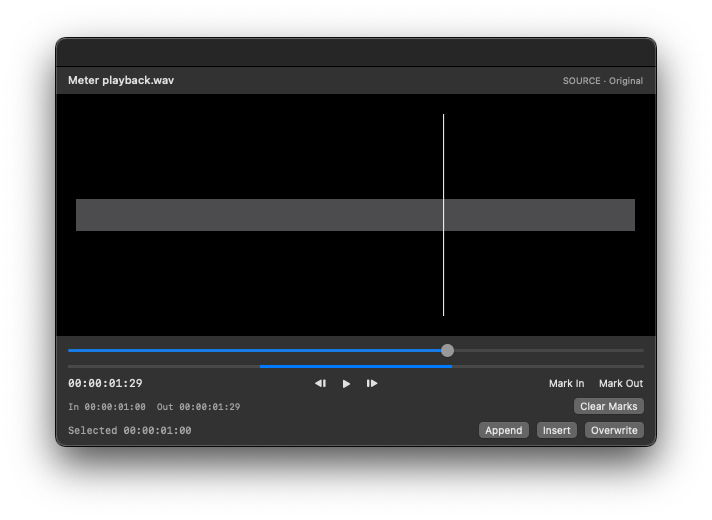
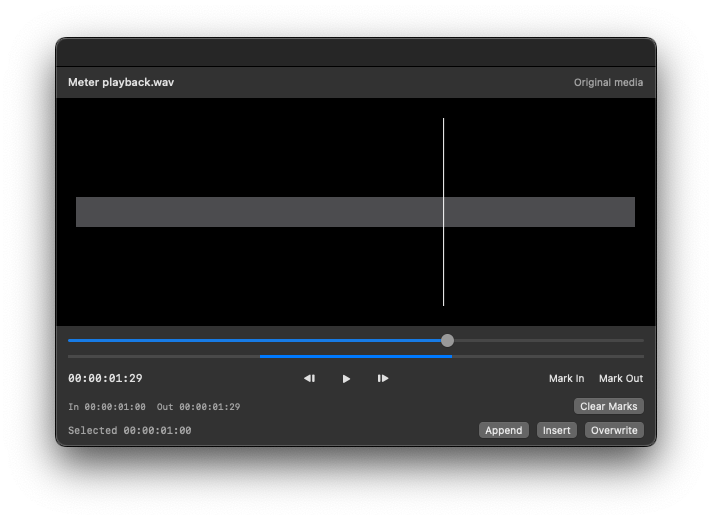
docs: refresh validated workspace captures and shortcut guidance

diff --git a/docs/STATUS.md b/docs/STATUS.md
@@ -30,6 +30,6 @@ This is the development status for 0.26.0. A published DMG means that milestone 
 
 ## Validation evidence and limits
 
-The macOS ARM64 CI builds Debug and Release, runs core and native-media integration tests, runs C audio DSP sanitizers, compares the core editing benchmark, builds and verifies a DMG, installs its app, launches an editing smoke workflow, and captures compact/wide editing workspaces, audio, export, empty states, shortcuts and the source viewer in dark and light appearances. Release jobs repeat native checks before publishing the DMG and checksum. Tests inspect real decoded pixels/audio, not just project metadata.
+The macOS ARM64 CI builds Debug and Release, runs core and native-media integration tests, runs C audio DSP sanitizers, compares the core editing benchmark, builds and verifies a DMG, installs its app, launches an editing smoke workflow, and captures compact/wide editing workspaces, audio, export, multicam setup, empty states, shortcuts and the source viewer in dark and light appearances. Release jobs repeat native checks before publishing the DMG and checksum. Tests inspect real decoded pixels/audio, not just project metadata.
 
 The CI host is a macOS VM. These checks cannot establish physical M1–M5 performance, all supported codec/device behavior, subjective editing quality, or production reliability by themselves. See MANUAL_TESTS.md and the versioned release notes for the precise milestones and limitations.

diff --git a/README.md b/README.md
@@ -4,9 +4,13 @@ A native, non-destructive macOS video editor built with SwiftUI, AppKit, AVFound
 
 ![Render running on macOS with an automated composition test project](docs/assets/workspace.png)
 
+[Light appearance](docs/assets/workspace-light.png) · Actual captures from the installed app.
+
 ## Requirements
 
 Apple Silicon · macOS 14+ · Xcode 16.4+ for source builds. No external runtime packages.
+
+Default editing keys can be changed in **Settings → Shortcuts**. Native Command menu shortcuts remain unchanged.
 
 ## Working editing path
 
